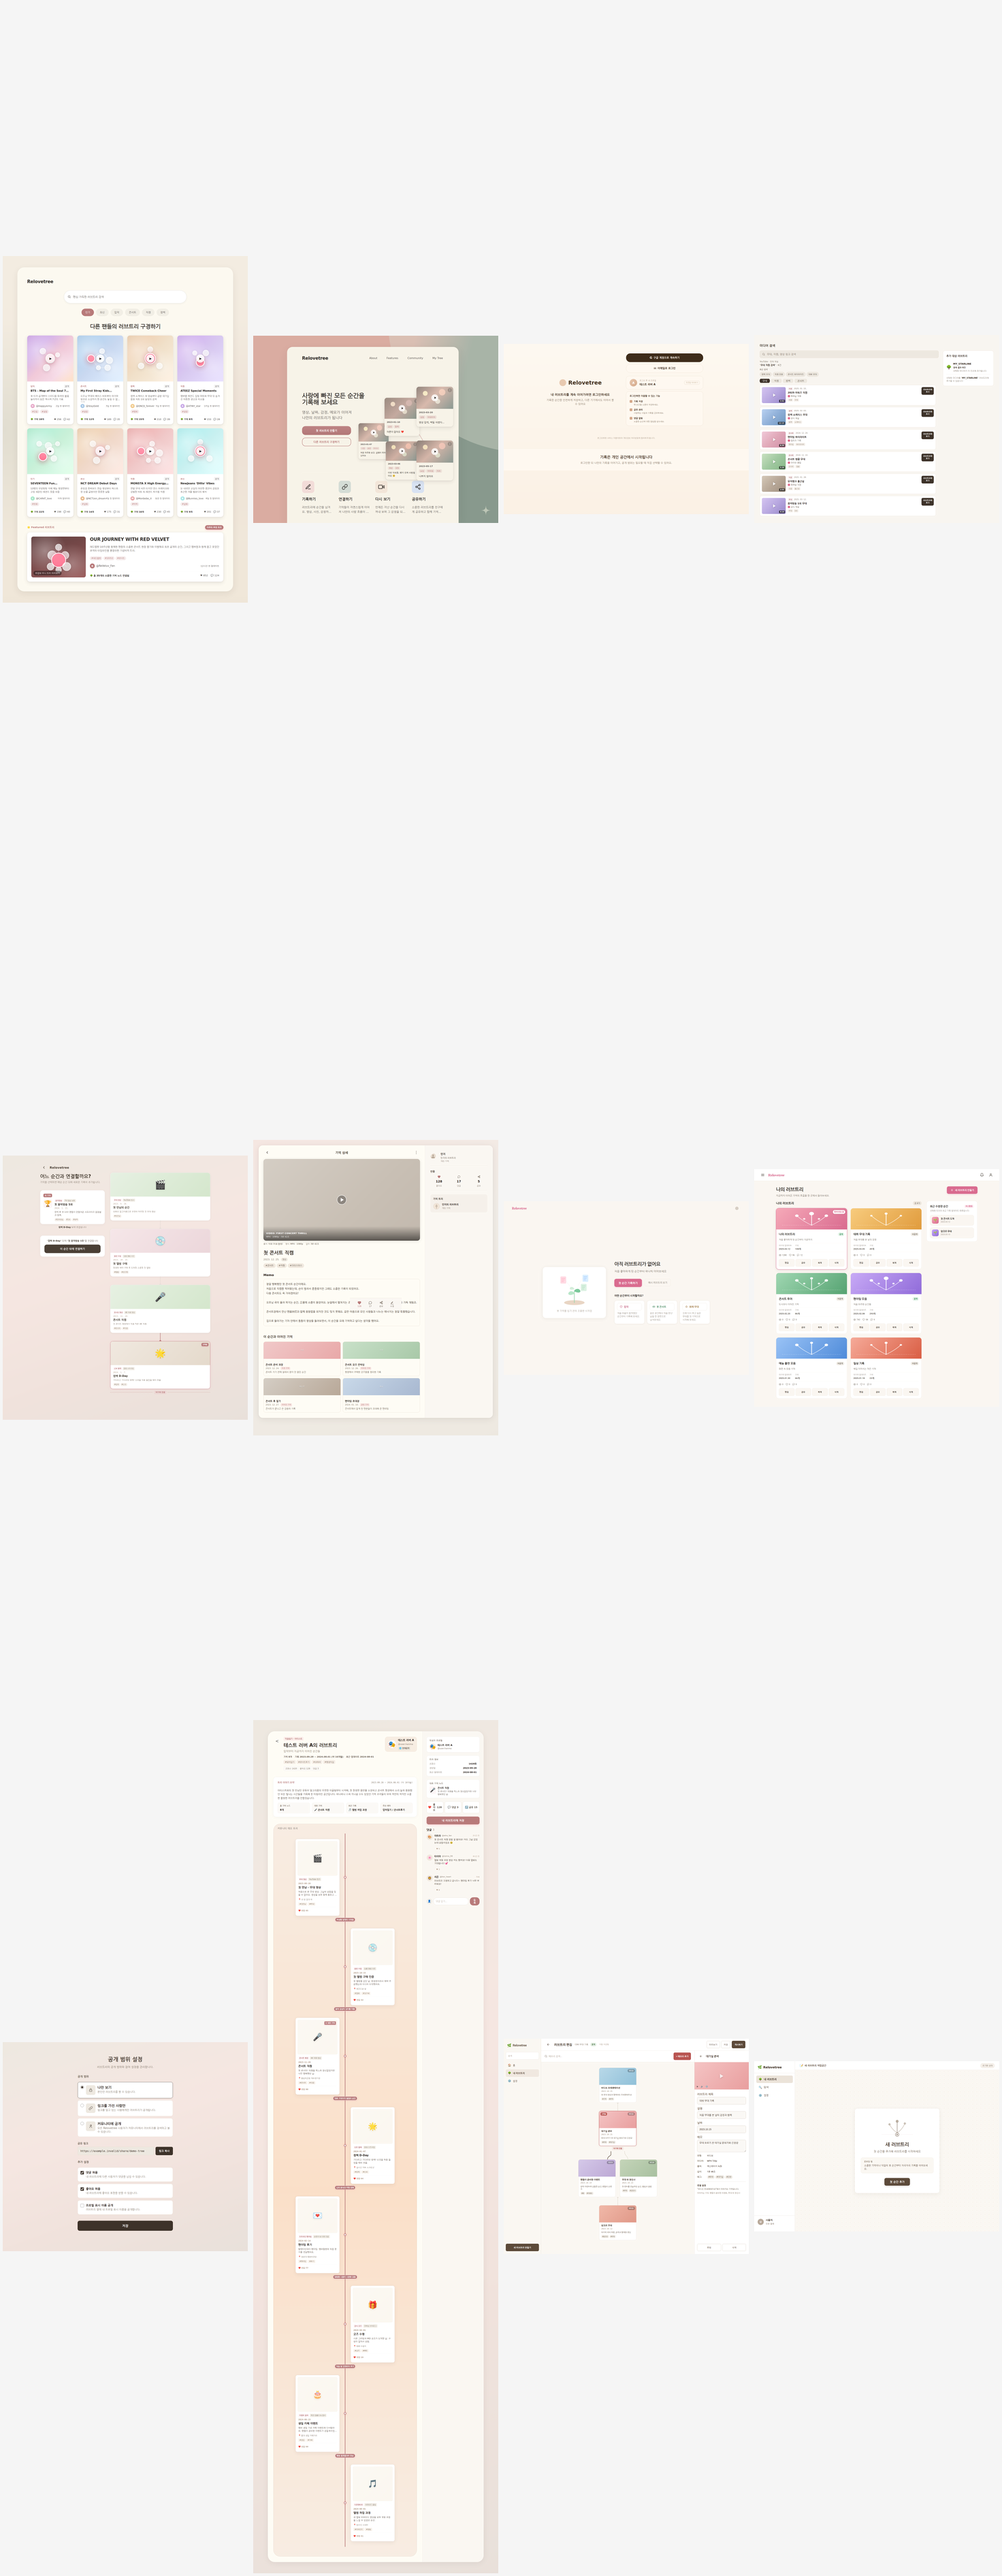
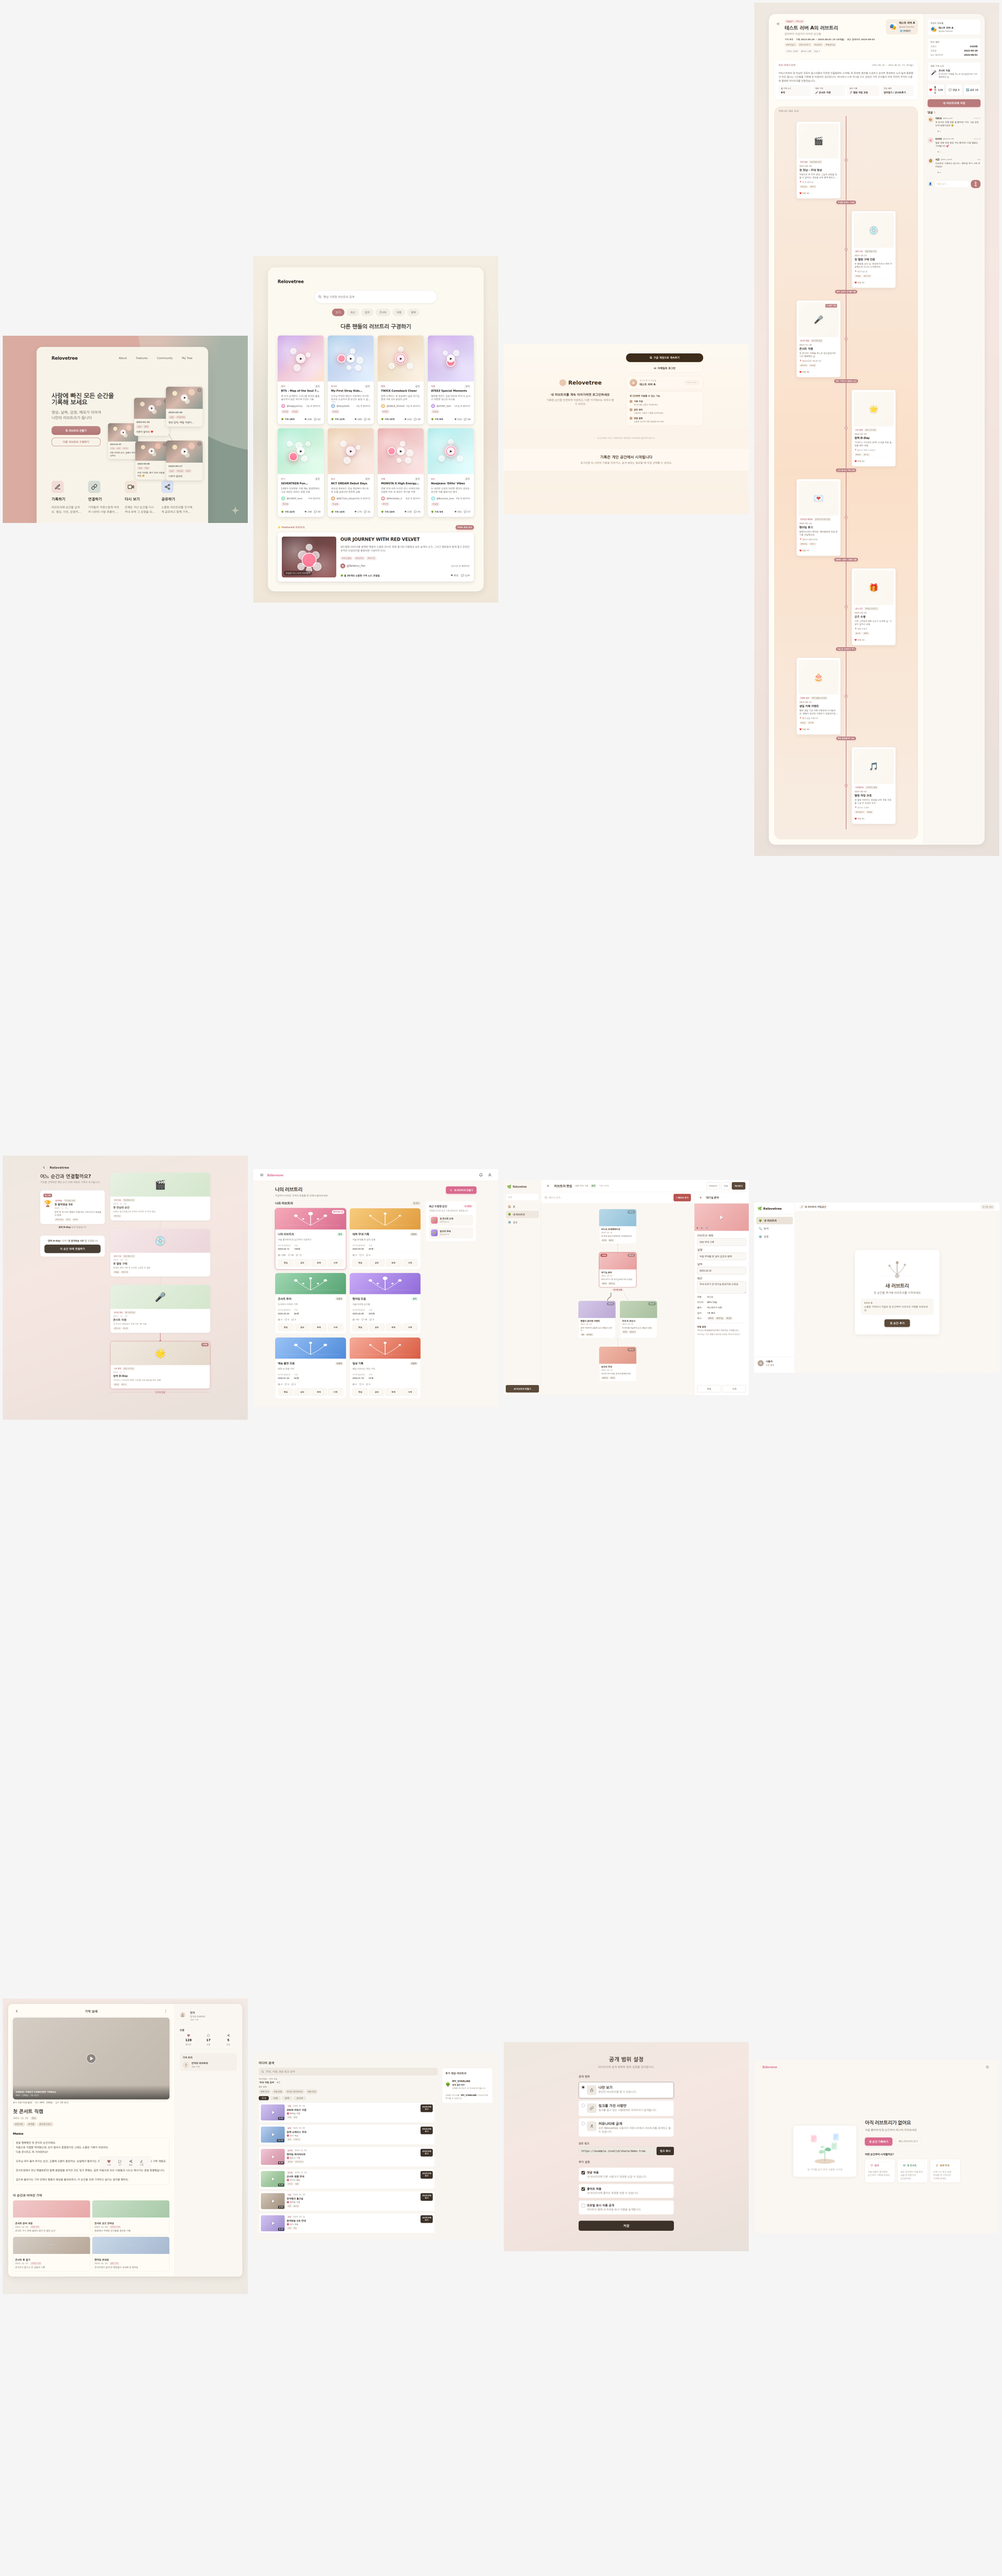
docs: recapture UI remediation evidence at final application head

diff --git a/docs/audits/ui-remediation-batch/remediation-log.md b/docs/audits/ui-remediation-batch/remediation-log.md
@@ -96,3 +96,31 @@ D-06. App-header tokens applied to 5 app bars; border colors unified.
 
 - Corrected `(D-0x)` labels in `UiRemediationContracts.test.tsx` to match the
   original defect register numbering.
+
+## Phase 6 refinement — `9c1f6d5` chore: tokenize cross-screen heading hierarchy
+
+- `src/index.css`: `--heading-page-size` → `clamp(1.5rem, 2.25vw, 2rem)`,
+  `--heading-work-size` → `clamp(1.375rem, 1.95vw, 1.75rem)` (responsive clamps
+  replace static desktop targets).
+- 6 component CSS files: outer `clamp(…, var(--heading-*-size))` simplified to
+  `var(--heading-*-size)` (token is now self-contained clamp).
+- `MyTreesPage.module.css`: removed redundant `≤767px .pageTitle { font-size: 22px }`
+  override (clamp floor handles it).
+- `VisibilitySettingsPage.module.css`: removed redundant `≥900px .screenTitle`
+  override (base rule already resolves to token).
+
+## Evidence — `87fcaf8` docs: refresh audit captures and metadata
+
+- Regenerated 36 captures + contact sheets + capture-metadata.json at the
+  refined heading-token build.
+
+## Evidence recapture — (evidence commit) docs: recapture UI remediation evidence at final application head
+
+- Full 36-capture recapture at application source `9c1f6d5` with corrected
+  metadata SHA separation. Contact sheets, SHA256SUMS, and all docs updated
+  to reference `9c1f6d5` as the application/visual source.
+
+## Metadata correction — (metadata commit) docs: correct final UI remediation evidence metadata
+
+- `capture-metadata.json`: evidence and metadata commit SHAs filled; all
+  `657b012` capture-source references removed.

diff --git a/docs/audits/ui-remediation-batch/README.md b/docs/audits/ui-remediation-batch/README.md
@@ -19,7 +19,12 @@
 | 7 | `ef20def` | chore: standardize app header visual tokens |
 | 8 | `657b012` | test: add cross-screen UI remediation regressions |
 | — | `9f1fd0d` | test: align contract test defect labels with register |
-| — | (this commit) | docs: add post-remediation 12-screen UI audit |
+| — | `44b357e` | docs: add post-remediation 12-screen UI audit |
+| — | `dea9cc1` | docs: finalize UI remediation audit metadata |
+| 6+ | `9c1f6d5` | chore: tokenize cross-screen heading hierarchy (responsive clamp refinement) |
+| — | `87fcaf8` | docs: refresh audit captures and metadata for heading token refinement |
+| — | (evidence commit) | docs: recapture UI remediation evidence at final application head |
+| — | (metadata commit) | docs: correct final UI remediation evidence metadata |
 
 ## Results
 

diff --git a/docs/audits/ui-remediation-batch/defect-register.md b/docs/audits/ui-remediation-batch/defect-register.md
@@ -2,7 +2,7 @@
 
 Source: `docs/audits/ui-integration-12-screen/defect-register.md` (branch
 `audit/ui-integration-12-screen`). All items re-verified after remediation at
-head `657b012` (application code identical at this docs commit).
+application source `9c1f6d5` (last code commit; subsequent commits are docs/evidence-only).
 
 ## P1 — Mobile Home clipping and containment
 
@@ -90,7 +90,7 @@ head `657b012` (application code identical at this docs commit).
 - **Verification:** cross-screen DOM contract asserts `focusable="false"` on
   every rendered `<svg>` across all 12 routes.
 
-## Acceptance metrics (head 657b012)
+## Acceptance metrics (application source 9c1f6d5)
 
 | Metric | Result |
 | --- | --- |

diff --git a/docs/audits/ui-remediation-batch/responsive-audit.md b/docs/audits/ui-remediation-batch/responsive-audit.md
@@ -5,7 +5,7 @@ Clipping detection uses bounding-box intersection plus clipping-context
 analysis (overflow/position ancestors); `scrollWidth == clientWidth` alone is
 not trusted (per batch acceptance rules).
 
-## Results (head 657b012)
+## Results (application source 9c1f6d5)
 
 - **Document horizontal overflow:** 0 across all 36 captures.
 - **Hard clips (element bbox outside/clipped by an ancestor):** 0.

diff --git a/docs/audits/ui-remediation-batch/route-matrix.md b/docs/audits/ui-remediation-batch/route-matrix.md
@@ -1,6 +1,6 @@
 # Route Matrix — 12 Routes × 3 Viewports
 
-Captured at head `657b012` via local `vite preview` (port 4173), Chrome
+Captured at application source `9c1f6d5` via local `vite preview` (127.0.0.1:4173), Chrome
 145.0.7632.116, Playwright 1.61.0. Viewports: desktop 1440×1000, intermediate
 900×900, mobile 390×844 (dpr 1, full-page screenshots).
 

diff --git a/docs/audits/ui-remediation-batch/acceptance.md b/docs/audits/ui-remediation-batch/acceptance.md
@@ -1,7 +1,7 @@
 # Final Acceptance Checklist
 
-Head at capture time: `657b012ec5058e55a3e3e5b56b58a4bae1a6c993`
-(application code identical at this docs commit).
+Application source at capture time: `9c1f6d52b95c855b87499a0ba57b9cfb352b2b17`
+(last code commit; subsequent commits are docs/evidence-only).
 
 ## Functional acceptance
 
